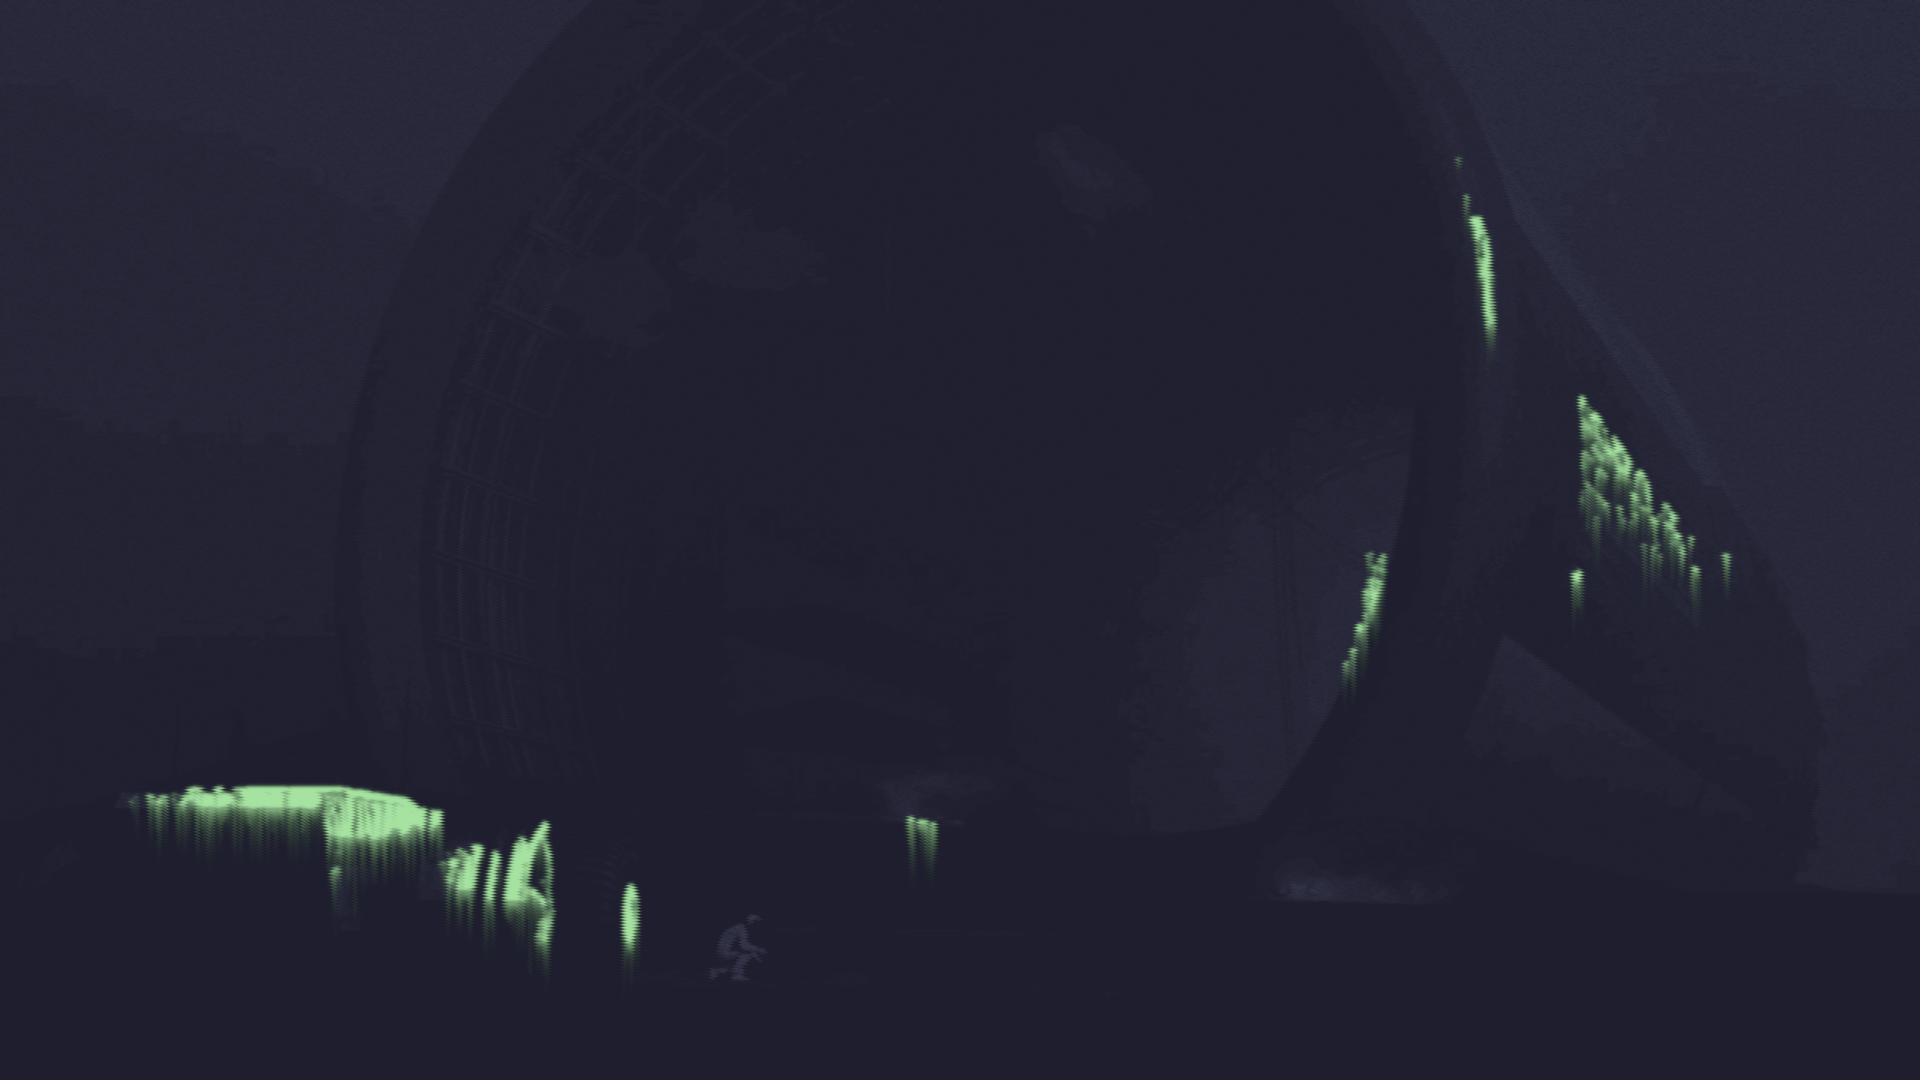
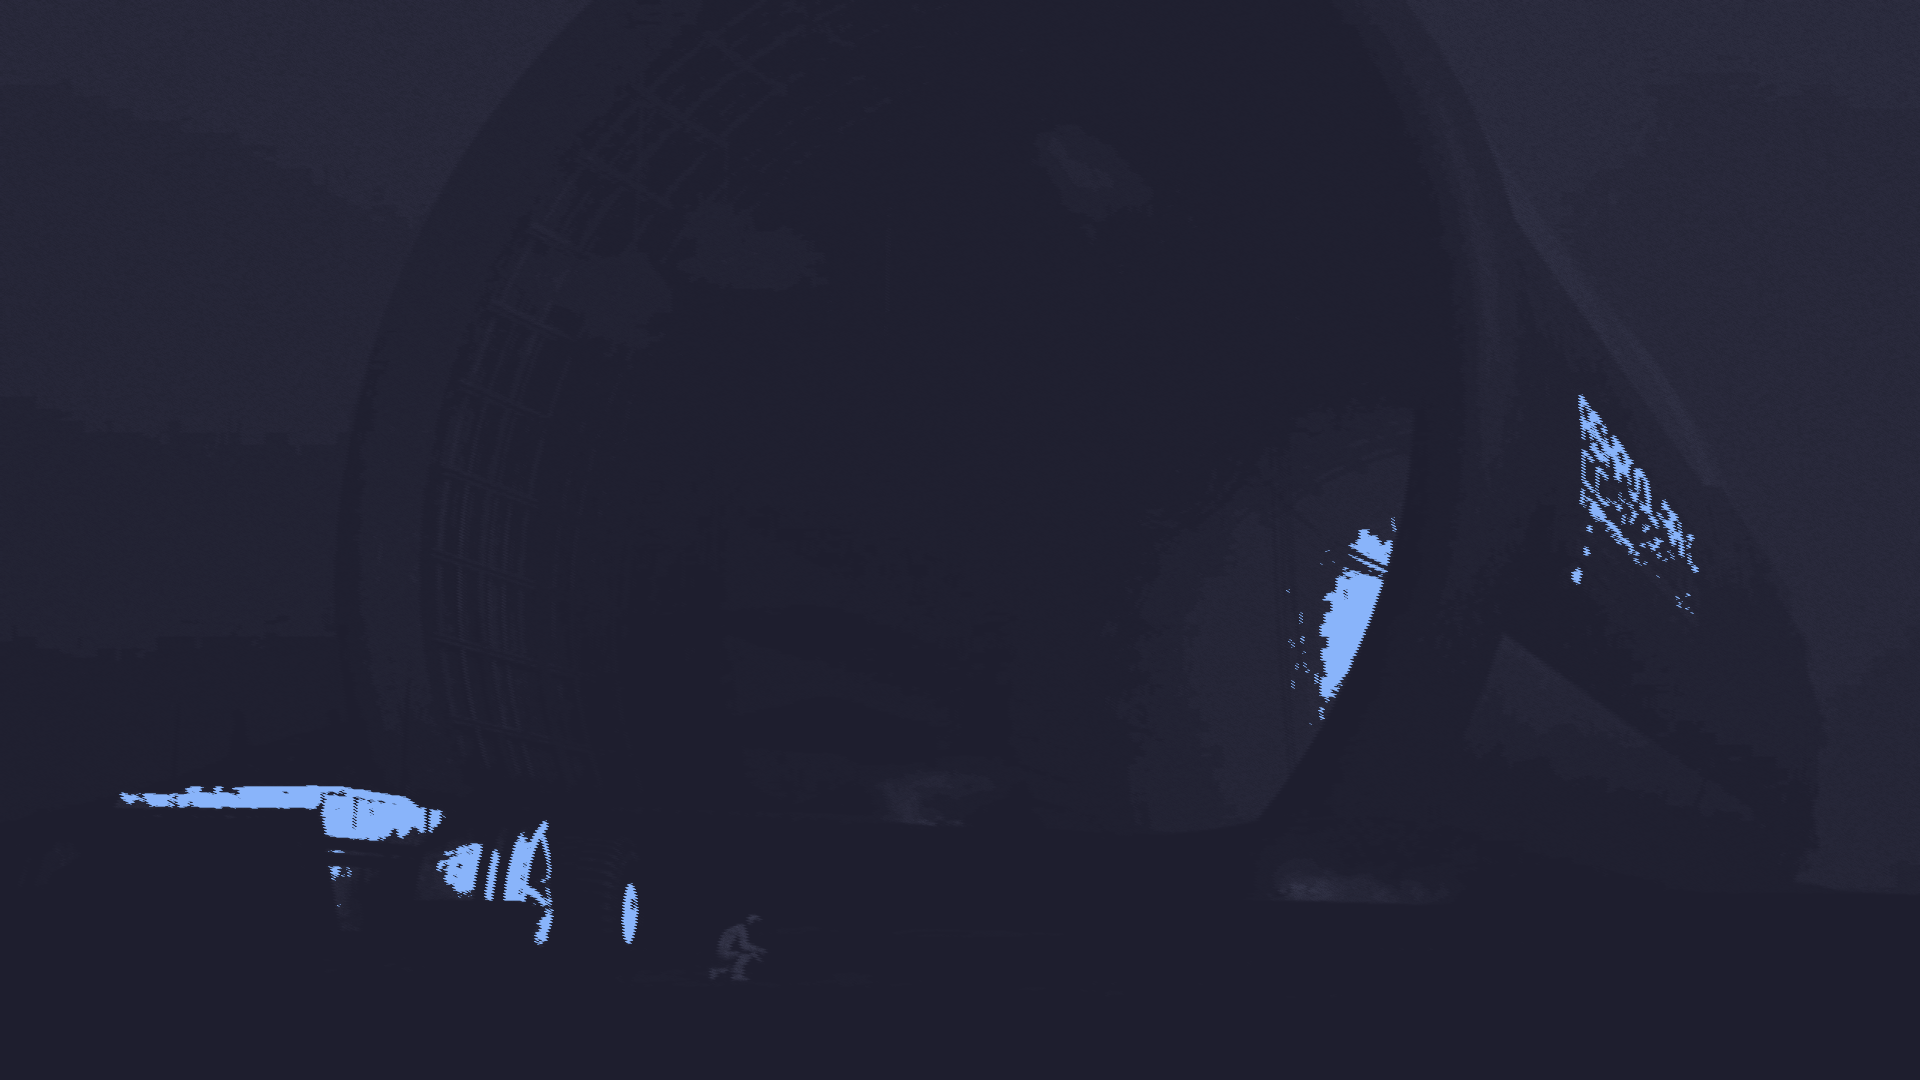
zsh, waybar, hyprland, cmus: color shift green => blue

diff --git a/waybar/style.css b/waybar/style.css
@@ -6,13 +6,13 @@
 @define-color   fg            #cdd6f4;
 @define-color   fg-dim        #b4befe;
 
-@define-color   mem           #a6e3a1;
+@define-color   mem           #89b4fa;
 @define-color   cpu           #cba6f7;
 @define-color   pulseaudio    #b4befe;
 
-@define-color   ws            #a6e3a1;
+@define-color   ws            #89b4fa;
 
-@define-color   disk          #a6e3a1;
+@define-color   disk          #89b4fa;
 
 @define-color   network       @bg-bright;
 @define-color   good          #b4befe;
